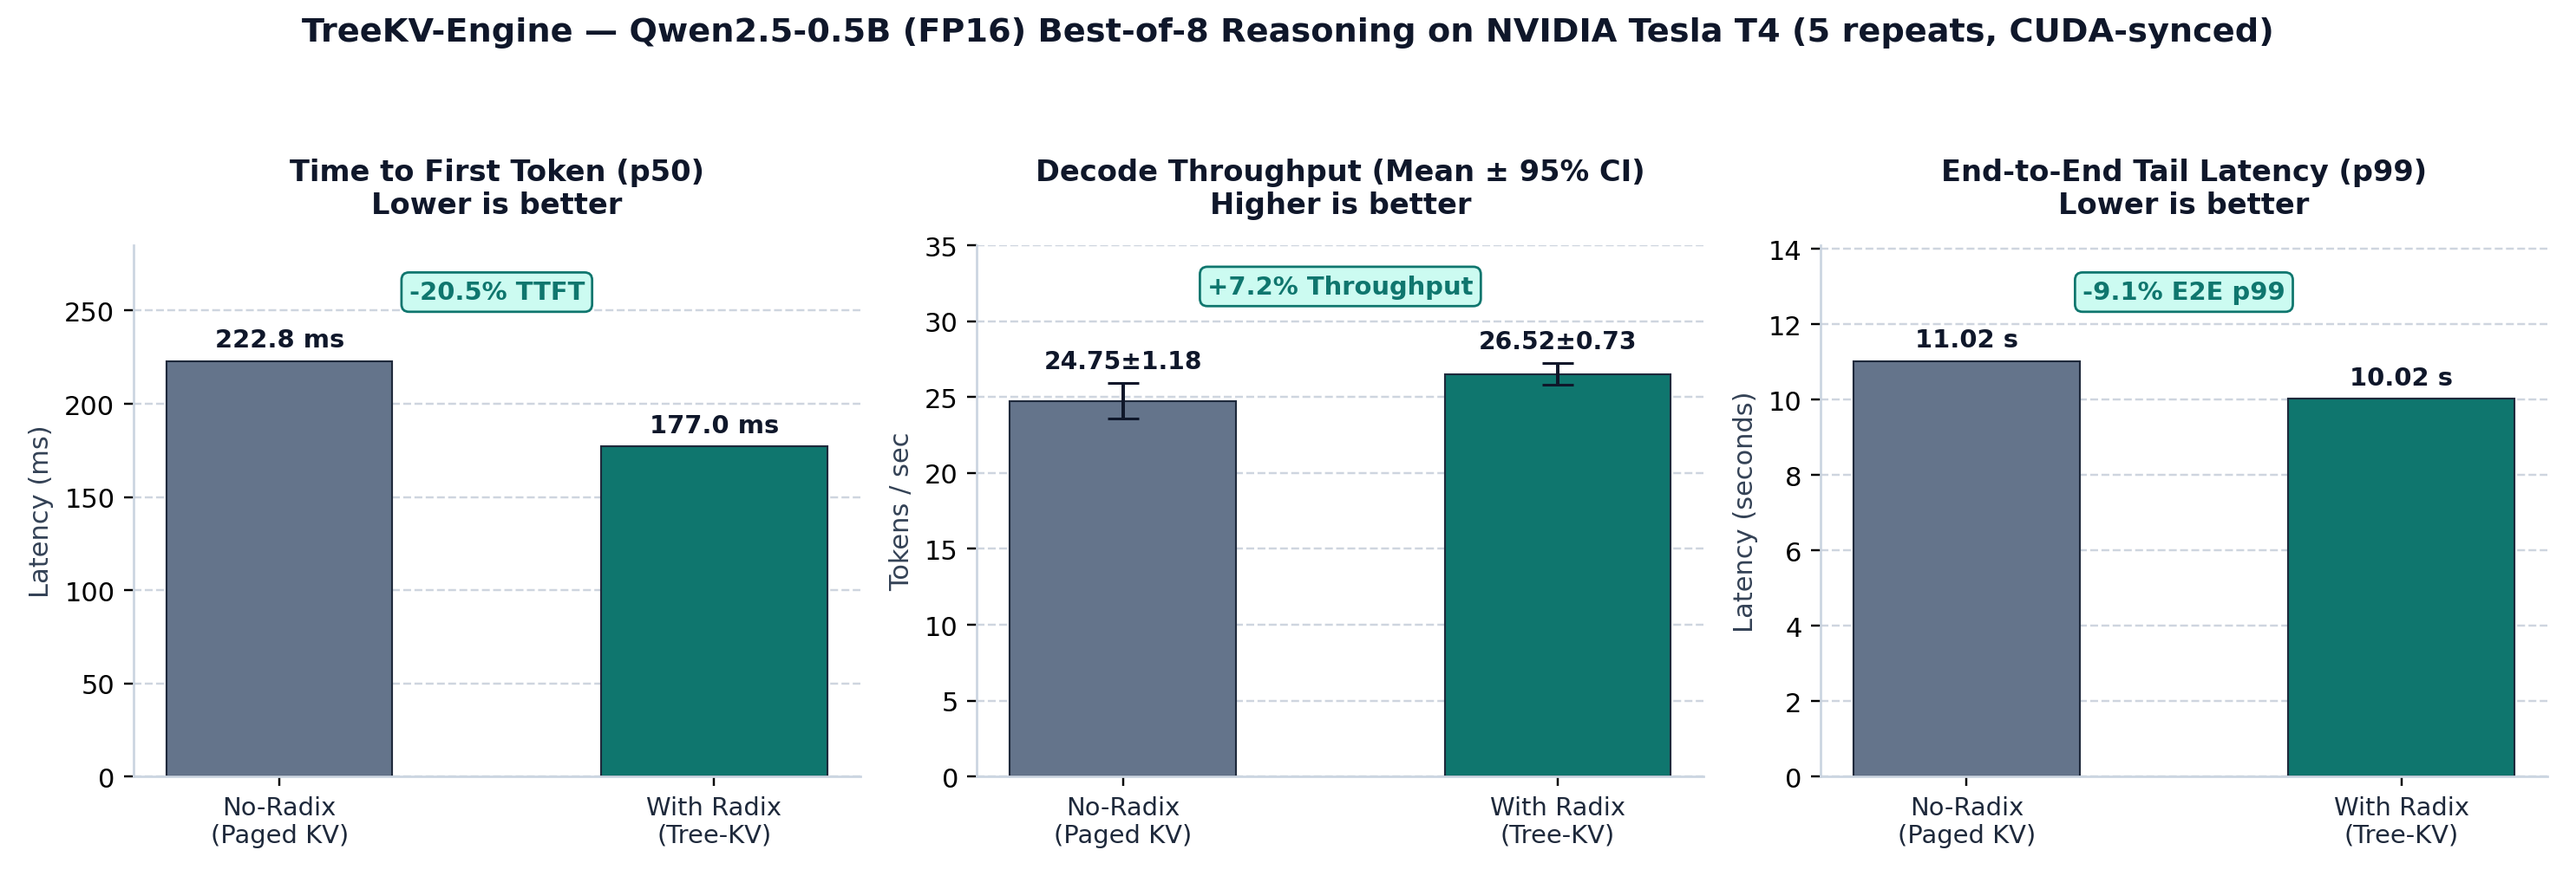
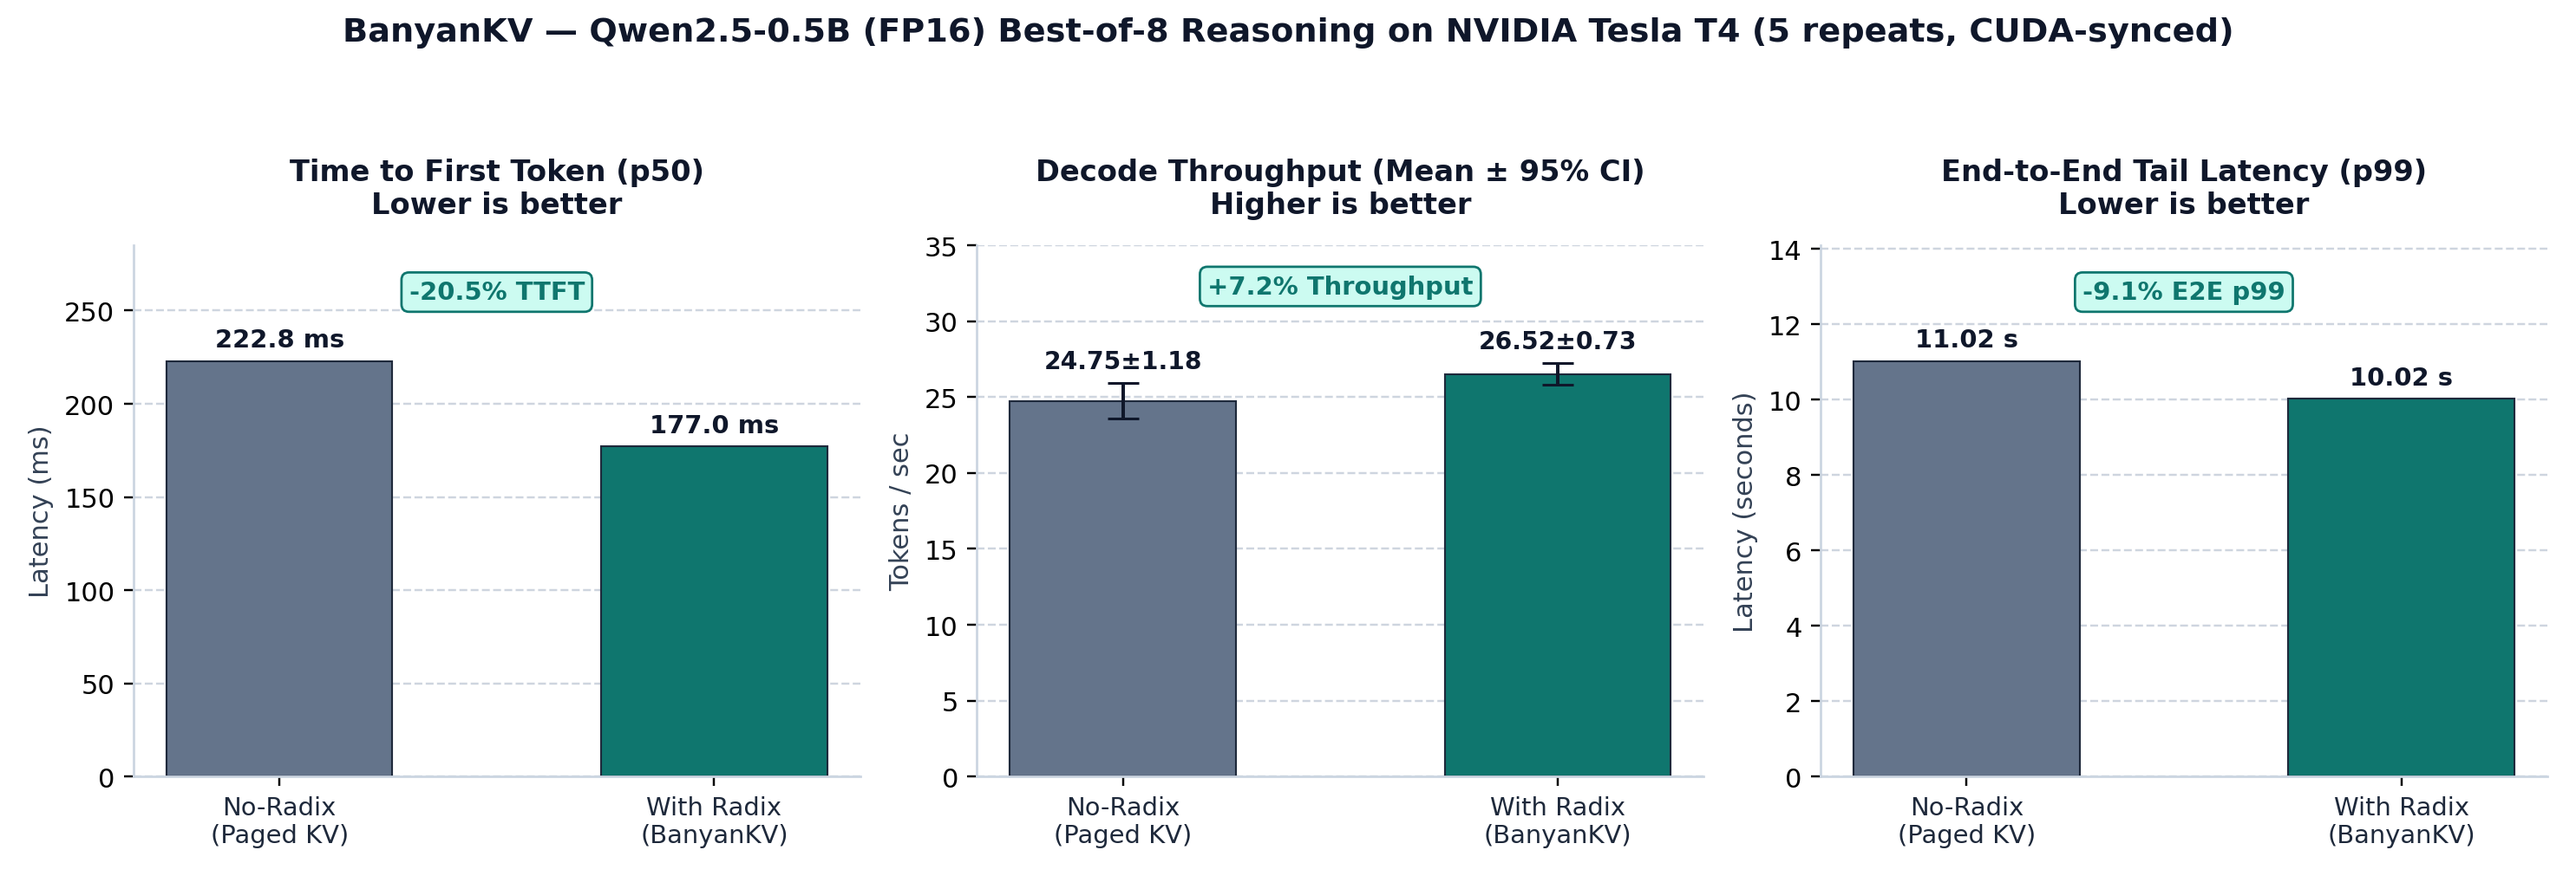
docs: rebrand to BanyanKV and fix GitHub Actions CI

diff --git a/docs/index.html b/docs/index.html
@@ -3,7 +3,7 @@
 <head>
   <meta charset="UTF-8" />
   <meta name="viewport" content="width=device-width, initial-scale=1.0" />
-  <title>TreeKV-Engine — Interactive LLM Inference Visualizer &amp; Tesla T4 Benchmarks</title>
+  <title>BanyanKV — Interactive LLM Inference Visualizer &amp; Tesla T4 Benchmarks</title>
   <script src="https://cdn.tailwindcss.com/3.4.17"></script>
   <script src="https://cdn.jsdelivr.net/npm/chart.js@4.4.1/dist/chart.umd.min.js"></script>
   <link rel="preconnect" href="https://fonts.googleapis.com" />
@@ -32,10 +32,10 @@
         </div>
         <div>
           <div class="flex items-center gap-2">
-            <h1 class="text-base sm:text-lg font-bold tracking-tight text-white">TreeKV-Engine</h1>
+            <h1 class="text-base sm:text-lg font-bold tracking-tight text-white">BanyanKV</h1>
             <span class="px-2 py-0.5 text-[11px] font-mono font-semibold rounded-full bg-teal-500/15 text-teal-300 border border-teal-500/30">v1.0.0</span>
           </div>
-          <p class="text-xs text-slate-400">From-Scratch PyTorch LLM Inference Engine · Qwen2.5-0.5B (FP16)</p>
+          <p class="text-xs text-slate-400">Radix Tree-KV LLM Inference Engine · One Shared Root, Many Reasoning Branches · Qwen2.5-0.5B (FP16)</p>
         </div>
       </div>
 
@@ -44,7 +44,7 @@
           <span class="w-2 h-2 rounded-full bg-emerald-400"></span>
           12/12 Tests Passed (HF Exact Match)
         </span>
-        <a href="https://github.com/swayamsaini/treekv-engine" target="_blank" rel="noopener noreferrer"
+        <a href="https://github.com/swayamsaini/banyankv" target="_blank" rel="noopener noreferrer"
            class="inline-flex items-center gap-1.5 px-3 py-1.5 rounded-md text-xs font-semibold bg-slate-800 hover:bg-slate-700 text-slate-100 border border-slate-700 transition">
           <svg class="w-4 h-4" fill="currentColor" viewBox="0 0 24 24"><path fill-rule="evenodd" clip-rule="evenodd" d="M12 2C6.477 2 2 6.484 2 12.017c0 4.425 2.865 8.18 6.839 9.504.5.092.682-.217.682-.483 0-.237-.008-.868-.013-1.703-2.782.605-3.369-1.343-3.369-1.343-.454-1.158-1.11-1.466-1.11-1.466-.908-.62.069-.608.069-.608 1.003.07 1.53 1.032 1.53 1.032.892 1.53 2.341 1.088 2.91.832.092-.647.35-1.088.636-1.338-2.22-.253-4.555-1.113-4.555-4.951 0-1.093.39-1.988 1.029-2.688-.103-.253-.446-1.272.098-2.65 0 0 .84-.27 2.75 1.026A9.564 9.564 0 0112 6.844c.85.004 1.705.115 2.504.337 1.909-1.296 2.747-1.027 2.747-1.027.546 1.379.202 2.398.1 2.651.64.7 1.028 1.595 1.028 2.688 0 3.848-2.339 4.695-4.566 4.943.359.309.678.92.678 1.855 0 1.338-.012 2.419-.012 2.747 0 .268.18.58.688.482A10.019 10.019 0 0022 12.017C22 6.484 17.522 2 12 2z"/></svg>
           GitHub Repo
@@ -379,7 +379,7 @@
   </main>
 
   <footer class="border-t border-slate-800/80 mt-10 py-5 text-center text-xs text-slate-500">
-    TreeKV-Engine v1.0.0 · Built by Swayam Saini · Pure PyTorch LLM Serving Engine for Qwen2.5-0.5B
+    BanyanKV v1.0.0 · Built by Swayam Saini · Pure PyTorch LLM Serving Engine for Qwen2.5-0.5B
   </footer>
 
   <script>

diff --git a/README.md b/README.md
@@ -1,6 +1,10 @@
-# TreeKV-Engine
+# BanyanKV
 
-A from-scratch, pure-PyTorch **Mini LLM Inference Engine** targeting [`Qwen/Qwen2.5-0.5B`](https://huggingface.co/Qwen/Qwen2.5-0.5B), designed for parallel reasoning workloads (Best-of-N). Built with clean modular interfaces, strict correctness gates verified token-for-token against Hugging Face, and reproducible CUDA-synced benchmarking on NVIDIA Tesla T4.
+> **Why *BanyanKV*?** Like a banyan tree—where one shared root trunk branches out into many independent aerial roots—**BanyanKV** shares a single physical KV-cache prefix root across parallel Best-of-N reasoning trajectories via Radix Tree prefix sharing and Copy-on-Write isolation.
+
+**[Live Interactive Visualizer & T4 Dashboard](https://swayamsaini.github.io/banyankv/)**
+
+A from-scratch, pure-PyTorch **Mini LLM Inference Engine** targeting [`Qwen/Qwen2.5-0.5B`](https://huggingface.co/Qwen/Qwen2.5-0.5B), designed for parallel reasoning workloads. Built with clean modular interfaces, strict correctness gates verified token-for-token against Hugging Face, and reproducible CUDA-synced benchmarking on NVIDIA Tesla T4.
 
 ## Highlights
 
@@ -17,47 +21,16 @@ A from-scratch, pure-PyTorch **Mini LLM Inference Engine** targeting [`Qwen/Qwen
 
 Measured on **Kaggle NVIDIA Tesla T4** (`15,360 MiB VRAM`, `PyTorch 2.11.0+cu130`, `transformers 5.20.2`, `Qwen/Qwen2.5-0.5B` in `FP16`, Best-of-8 parallel reasoning branches, `max_new_tokens=32`, 5 CUDA-synced repeats):
 
-![TreeKV-Engine Tesla T4 Best-of-8 Benchmark](docs/t4_benchmark_best_of_8.png)
+![BanyanKV Tesla T4 Best-of-8 Benchmark](docs/t4_benchmark_best_of_8.png)
 
-| Metric (Best-of-8, 5 repeats) | No-Radix (Paged KV) | With Radix (Tree-KV) | Improvement |
+| Metric (Best-of-8, 5 repeats) | No-Radix (Paged KV) | With Radix (BanyanKV) | Improvement |
 |---|---:|---:|---:|
 | **TTFT p50 (ms)** ↓ | `222.80 ms` | **`177.02 ms`** | **`-20.55%`** |
 | **Throughput (tok/s, Mean ± 95% CI)** ↑ | `24.75 ± 1.18` | **`26.52 ± 0.73`** | **`+7.15%`** |
 | **End-to-End p99 (ms)** ↓ | `11,019.32 ms` | **`10,020.75 ms`** | **`-9.06%`** |
 | **Correctness Gate (`pytest -v tests/`)** | — | **`12 passed in 40.60s`** | Exact HF match |
 
-> **Engineering Note:** Even on a short ~56-token math prompt where autoregressive decode dominates total wall time, Radix Tree-KV cuts median **TTFT by 20.6%**, trims **p99 E2E latency by 9.1%**, and raises throughput by **+7.2%** with tighter variance (`±0.73` vs `±1.18 tok/s`). Longer shared system prompts (512–2,048 tokens) further amplify prefill savings. Raw output is archived in [`results/study_summary.json`](results/study_summary.json).
-
----
-
-## Architecture
-
-```text
-configs/
-  qwen2_5_0_5b.py          # Exact Qwen2.5-0.5B hyperparameters & KV math
-treekv/
-  interfaces.py            # Clean Protocol contracts (PrefixCache, BlockAllocator, Drafter)
-  model/
-    layers.py              # RMSNorm, RoPE, SwiGLU
-    attention.py           # 7:1 GQA with contiguous & paged KV paths
-    qwen2.py               # Scratch Qwen2ForCausalLM + Hugging Face weight loader
-    sampler.py             # Greedy & temperature/top-p sampling
-  memory/
-    block_manager.py       # 16-token PagedKVCache, BlockAllocator, Copy-on-Write
-    radix_cache.py         # RadixBlockCache (LRU eviction) & NullPrefixCache
-  engine/
-    sequence.py            # Sequence FSM & timing metadata
-    scheduler.py           # Iteration-level ContinuousScheduler + LIFO preemption
-    speculative.py         # Lossless rejection sampling, KV rollback, Prompt-Lookup drafter
-    runner.py              # End-to-end TreeKVEngine orchestrator
-  bench/
-    workloads.py           # Deterministic Poisson arrival traces
-    metrics.py             # CUDA-synced timing, p50/p99, 95% Student-t CI
-    run_study.py           # Reproducible Best-of-N ablation study runner
-tests/                     # 12 unit & integration gate tests (Phases 0–5)
-notebooks/
-  kaggle_t4_runner.ipynb   # One-click free Kaggle T4 x2 verification & benchmark notebook
-```
+> **Engineering Note:** Even on a short ~56-token math prompt where autoregressive decode dominates total wall time, BanyanKV's Radix prefix sharing cuts median **TTFT by 20.6%**, trims **p99 E2E latency by 9.1%**, and raises throughput by **+7.2%** with tighter variance (`±0.73` vs `±1.18 tok/s`). Longer shared system prompts (512–2,048 tokens) further amplify prefill savings. Raw output is archived in [`results/study_summary.json`](results/study_summary.json).
 
 ---
 
